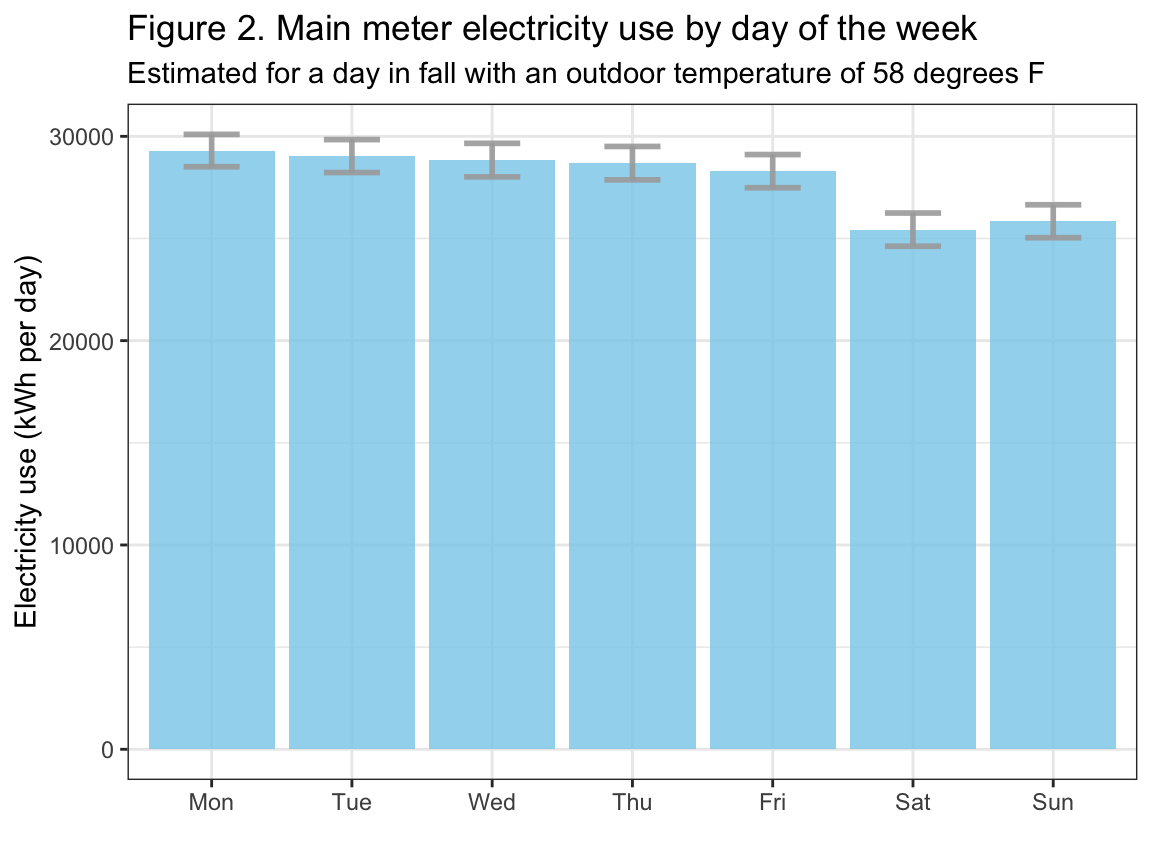
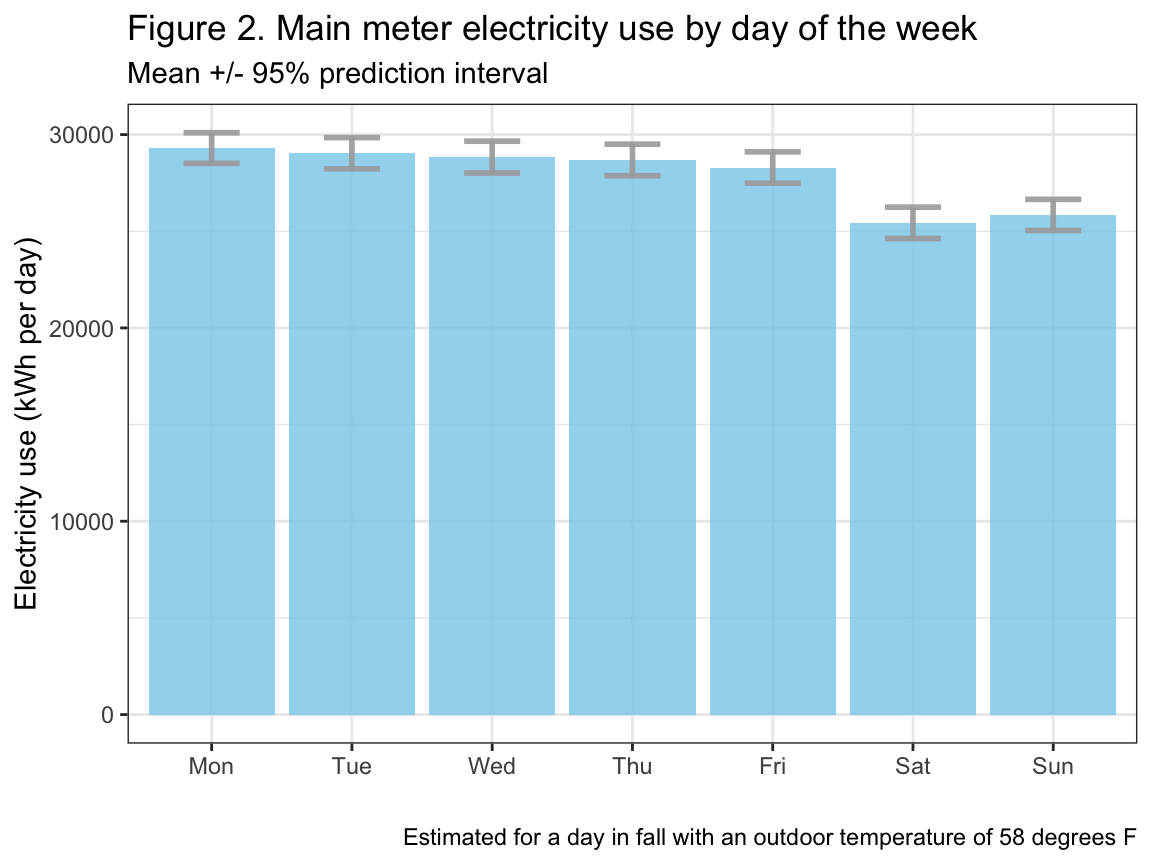
minor changes to vis

diff --git a/docs/main_meter_mod_vis.html b/docs/main_meter_mod_vis.html
@@ -446,7 +446,7 @@ aria-hidden="true"></span> </a>
 <div class="tab-content">
 <div id="summary" class="tab-pane fade in active">
 <p>
-<strong>Last updated:</strong> 2026-04-15
+<strong>Last updated:</strong> 2026-04-22
 </p>
 <p>
 <strong>Checks:</strong> <span
@@ -580,15 +580,15 @@ project makes it easier to run your code on other machines.</p>
 <div class="panel panel-default">
 <div class="panel-heading">
 <p class="panel-title">
-<a data-toggle="collapse" data-parent="#workflowr-checks" href="#strongRepositoryversionstrongahrefhttpsgithubcommaggiedouglasdickinsonpowertreee2cfff1397dc2578a3a5b1d4bba46bb4e3f407edtargetblanke2cfff1a">
+<a data-toggle="collapse" data-parent="#workflowr-checks" href="#strongRepositoryversionstrongahrefhttpsgithubcommaggiedouglasdickinsonpowertreeb34eba269be31c0bd75058776f2150ab26a773abtargetblankb34eba2a">
 <span class="glyphicon glyphicon-ok text-success"
 aria-hidden="true"></span> <strong>Repository version:</strong>
-<a href="https://github.com/maggiedouglas/dickinson_power/tree/e2cfff1397dc2578a3a5b1d4bba46bb4e3f407ed" target="_blank">e2cfff1</a>
+<a href="https://github.com/maggiedouglas/dickinson_power/tree/b34eba269be31c0bd75058776f2150ab26a773ab" target="_blank">b34eba2</a>
 </a>
 </p>
 </div>
 <div
[2 lines of base64/hex data omitted]
 class="panel-collapse collapse">
 <div class="panel-body">
 <p>
@@ -598,7 +598,7 @@ reproducibility.
 </p>
 <p>
 The results in this page were generated with repository version
-<a href="https://github.com/maggiedouglas/dickinson_power/tree/e2cfff1397dc2578a3a5b1d4bba46bb4e3f407ed" target="_blank">e2cfff1</a>.
+<a href="https://github.com/maggiedouglas/dickinson_power/tree/b34eba269be31c0bd75058776f2150ab26a773ab" target="_blank">b34eba2</a>.
 See the <em>Past versions</em> tab to see a history of the changes made
 to the R Markdown and HTML files.
 </p>
@@ -671,6 +671,7 @@ Ignored files:
 
 Unstaged changes:
     Modified:   analysis/main_meter_mod_vis.Rmd
+    Modified:   analysis/main_meter_regression.Rmd
 
 </code></pre>
 <p>
@@ -715,6 +716,40 @@ Message
 </tr>
 </thead>
 <tbody>
+<tr>
+<td>
+Rmd
+</td>
+<td>
+<a href="https://github.com/maggiedouglas/dickinson_power/blob/b34eba269be31c0bd75058776f2150ab26a773ab/analysis/main_meter_mod_vis.Rmd" target="_blank">b34eba2</a>
+</td>
+<td>
+maggiedouglas
+</td>
+<td>
+2026-04-15
+</td>
+<td>
+update vis results
+</td>
+</tr>
+<tr>
+<td>
+html
+</td>
+<td>
+<a href="https://rawcdn.githack.com/maggiedouglas/dickinson_power/b34eba269be31c0bd75058776f2150ab26a773ab/docs/main_meter_mod_vis.html" target="_blank">b34eba2</a>
+</td>
+<td>
+maggiedouglas
+</td>
+<td>
+2026-04-15
+</td>
+<td>
+update vis results
+</td>
+</tr>
 <tr>
 <td>
 Rmd
@@ -898,6 +933,17 @@ Date
 <tbody>
 <tr>
 <td>
+<a href="https://github.com/maggiedouglas/dickinson_power/blob/b34eba269be31c0bd75058776f2150ab26a773ab/docs/figure/main_meter_mod_vis.Rmd/pred_period-1.png" target="_blank">b34eba2</a>
+</td>
+<td>
+maggiedouglas
+</td>
+<td>
+2026-04-15
+</td>
+</tr>
+<tr>
+<td>
 <a href="https://github.com/maggiedouglas/dickinson_power/blob/e2cfff1397dc2578a3a5b1d4bba46bb4e3f407ed/docs/figure/main_meter_mod_vis.Rmd/pred_period-1.png" target="_blank">e2cfff1</a>
 </td>
 <td>
@@ -921,6 +967,43 @@ ggplot(pred_period) +
        subtitle = &quot;Mean +/- 95% prediction interval&quot;,
        caption = &quot;Estimated for a Monday with an outdoor temperature of 58 degrees F&quot;)</code></pre>
 <p><img src="figure/main_meter_mod_vis.Rmd/pred_period-2.png" alt="" width="528" style="display: block; margin: auto;" /></p>
+<p>
+<button type="button" class="btn btn-default btn-xs btn-workflowr btn-workflowr-fig" data-toggle="collapse" data-target="#fig-pred_period-2">
+Past versions of pred_period-2.png
+</button>
+</p>
+<div id="fig-pred_period-2" class="collapse">
+<div class="table-responsive">
+<table class="table table-condensed table-hover">
+<thead>
+<tr>
+<th>
+Version
+</th>
+<th>
+Author
+</th>
+<th>
+Date
+</th>
+</tr>
+</thead>
+<tbody>
+<tr>
+<td>
+<a href="https://github.com/maggiedouglas/dickinson_power/blob/b34eba269be31c0bd75058776f2150ab26a773ab/docs/figure/main_meter_mod_vis.Rmd/pred_period-2.png" target="_blank">b34eba2</a>
+</td>
+<td>
+maggiedouglas
+</td>
+<td>
+2026-04-15
+</td>
+</tr>
+</tbody>
+</table>
+</div>
+</div>
 </div>
 <div id="day-of-the-week" class="section level3">
 <h3>Day of the week</h3>
@@ -943,7 +1026,8 @@ ggplot(conf_day) +
   theme_bw() +
   labs(x = &quot;&quot;, y = &quot;Electricity use (kWh per day)&quot;, 
        title = &quot;Figure 2. Main meter electricity use by day of the week&quot;,
-       subtitle = &quot;Estimated for a day in fall with an outdoor temperature of 58 degrees F&quot;)</code></pre>
+       subtitle = &quot;Mean +/- 95% prediction interval&quot;,
+       caption = &quot;Estimated for a day in fall with an outdoor temperature of 58 degrees F&quot;)</code></pre>
 <p><img src="figure/main_meter_mod_vis.Rmd/pred_day-1.png" alt="" width="576" style="display: block; margin: auto;" /></p>
 <p>
 <button type="button" class="btn btn-default btn-xs btn-workflowr btn-workflowr-fig" data-toggle="collapse" data-target="#fig-pred_day-1">
@@ -1196,8 +1280,9 @@ loaded via a namespace (and not attached):
 [58] pillar_1.11.1          htmltools_0.5.9        R6_2.6.1              
 [61] rprojroot_2.1.1        evaluate_1.0.5         lattice_0.22-7        
 [64] backports_1.5.0        httpuv_1.6.16          bslib_0.10.0          
-[67] Rcpp_1.1.1             gridExtra_2.3          whisker_0.4.1         
-[70] xfun_0.56              fs_1.6.7               pkgconfig_2.0.3       </code></pre>
+[67] Rcpp_1.1.1             gridExtra_2.3          coda_0.19-4.1         
+[70] whisker_0.4.1          xfun_0.56              fs_1.6.7              
+[73] pkgconfig_2.0.3       </code></pre>
 </div>
 </div>
 </div>
